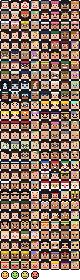
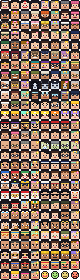
코어 0.128.2 · 경제 3.126.1: 커플 · 신혼부부(별난 손님 포함)는 늘 남녀, 한복 신부에는 한복 신랑
Claude-Session: https://claude.ai/code/session_01RZiBpXr9dauHCJtPMWBQ4s

diff --git a/economy/src/main/java/dev/stsv/economy/bus/BusSpec.java b/economy/src/main/java/dev/stsv/economy/bus/BusSpec.java
@@ -34,14 +34,31 @@ public record BusSpec(Set<String> vehicles, Fare fare, Mood mood, Stops stops, M
             return t.skins().isEmpty() ? null : shinySkin(t.skins().getFirst(), t.id());
         }
 
+        /**
+         * The skin the other half of a shiny pair wears: <id>_s2, their partner look ({@link Type#partnerBase()})
+         * recoloured the same way, so a shiny 커플 or 신혼부부 is a man and a woman, not twins. A kind with its own
+         * shiny-skin (or not a pair) wears {@link #skin} on both halves.
+         */
+        public String partnerSkin(Type t) {
+            String own = skins.get(t.id());
+            if (own != null && !own.isBlank()) return own;
+            String base = t.partnerBase();
+            return base == null ? skin(t) : shinySkin(base, t.id(), 2);
+        }
+
         /** economy:entity/bus/grandma_1 slim -> economy:entity/bus/grandma_s1 slim (the folder of the first skin, the kind's id). */
         static String shinySkin(String first, String id) {
+            return shinySkin(first, id, 1);
+        }
+
+        /** The same with _s<n> (2: a pair's other half, from their partner look). */
+        static String shinySkin(String first, String id, int n) {
             boolean slim = first.endsWith(" slim");
             String key = slim ? first.substring(0, first.length() - 5).trim() : first.trim();
             int cut = key.lastIndexOf('/');
             int colon = key.indexOf(':');
             String folder = cut >= 0 ? key.substring(0, cut + 1) : colon >= 0 ? key.substring(0, colon + 1) : "";
-            return folder + id + "_s1" + (slim ? " slim" : "");
+            return folder + id + "_s" + n + (slim ? " slim" : "");
         }
 
         /** A shiny one's lines in this situation (board, thanks): their kind's own, else the general ones, else null. */
@@ -146,7 +163,7 @@ public record BusSpec(Set<String> vehicles, Fare fare, Mood mood, Stops stops, M
 
     public record Type(String id, String name, String color, double weight, double fare, double mood, double slow, double jolt, double tip,
                        double far, double tipMood, double rush, double late, double scale, boolean announce, List<String> skins,
-                       Map<String, Double> tags, int hourFrom, int hourTo, double weekend, double market, double luggage, boolean pair,
+                       List<String> partnerSkins, Map<String, String> pairs, Map<String, Double> tags, int hourFrom, int hourTo, double weekend, double market, double luggage, boolean pair,
                        double wander, double turnFactor, boolean toEnd, double doze, List<Gift> gifts, Map<String, List<String>> talk,
                        Traits x, Hold hold) {
 
@@ -176,6 +193,32 @@ public record BusSpec(Set<String> vehicles, Fare fare, Mood mood, Stops stops, M
             return w * best;
         }
 
+        /**
+         * Every look (bus.yml skins, then partner-skins): the index hold / hold-off lists follow. A pair kind's first half
+         * wears one of `skins`, the other half one of `partnerSkins` (커플: the boyfriend, then the girlfriend; 신혼부부:
+         * the brides, then the grooms), `pairs` (look name -> partner look name, e.g. bride_3 -> bride_4) when one look
+         * has its own match. A pair kind with no partner-skins (유치원생): any two of `skins`.
+         */
+        public List<String> looks() {
+            if (partnerSkins.isEmpty()) return skins;
+            List<String> all = new ArrayList<>(skins);
+            all.addAll(partnerSkins);
+            return List.copyOf(all);
+        }
+
+        /** The skin a pair's other half's shiny (_s2) is drawn from: the first partner look, else the second look; null if not a pair. */
+        public String partnerBase() {
+            if (!pair || skins.isEmpty()) return null;
+            if (!partnerSkins.isEmpty()) return partnerSkins.getFirst();
+            return skins.size() > 1 ? skins.get(1) : skins.getFirst();
+        }
+
+        /** The look name of a skin key: economy:entity/bus/bride_3 slim -> bride_3. */
+        public static String lookName(String skin) {
+            String key = skin.endsWith(" slim") ? skin.substring(0, skin.length() - 5).trim() : skin.trim();
+            return key.substring(Math.max(key.lastIndexOf('/'), key.indexOf(':')) + 1);
+        }
+
         /** This kind's mood never goes below its floor (수다쟁이 아줌마, 스님). */
         public double floor(double mood) {
             return Math.max(mood, x.moodFloor());
@@ -196,8 +239,9 @@ public record BusSpec(Set<String> vehicles, Fare fare, Mood mood, Stops stops, M
      */
     /**
      * What a passenger mannequin holds (bus.yml types.*.hold / hold-off / hold-fly, README "마을버스"): an item id per look (index
-     * of `skins`; one for every look when bus.yml gives one id) in the main hand and in the off hand, "" for an empty hand; a
-     * 별난 손님 (look -1) holds what the first look holds. `fly`: the model the main-hand thing becomes when a jolt or a bump
+     * of {@link Type#looks()}: skins, then partner-skins; one for every look when bus.yml gives one id) in the main hand and in
+     * the off hand, "" for an empty hand; a 별난 손님 (look -1) holds what the first look holds, the other half of a shiny pair
+     * what their partner look ({@link Type#partnerBase()}) holds. `fly`: the model the main-hand thing becomes when a jolt or a bump
      * sends it fluttering round the bus (the hen), "" for none.
      */
     public record Hold(List<String> main, List<String> off, String fly) {
@@ -248,7 +292,7 @@ public record BusSpec(Set<String> vehicles, Fare fare, Mood mood, Stops stops, M
             List<String> raw = new ArrayList<>();
             if (t.isList(key)) {
                 for (Object o : t.getList(key, List.of())) raw.add(o == null ? "" : String.valueOf(o));
-                if (raw.size() != looks) problems.add("types." + id + "." + key + ": 모습(skins) " + looks + "개인데 " + raw.size() + "개");
+                if (raw.size() != looks) problems.add("types." + id + "." + key + ": 모습(skins + partner-skins) " + looks + "개인데 " + raw.size() + "개");
             } else raw.add(t.getString(key, ""));
             List<String> out = new ArrayList<>();
             for (String r : raw) {
@@ -326,13 +370,15 @@ public record BusSpec(Set<String> vehicles, Fare fare, Mood mood, Stops stops, M
             for (Map<?, ?> g : t.getMapList("gifts")) {
                 if (g.get("item") instanceof String item) gifts.add(new Gift(item, num(g, "amount", 1).intValue()));
             }
+            List<String> skins = List.copyOf(t.getStringList("skins")), partnerSkins = List.copyOf(t.getStringList("partner-skins"));
+            Map<String, String> pairs = pairs(t, id, skins, partnerSkins, problems);
             types.put(id, new Type(id, t.getString("name", id), t.getString("color", "white"), t.getDouble("weight", 1), t.getDouble("fare", 1),
                     t.getDouble("mood", 1), t.getDouble("slow", 1), t.getDouble("jolt", 1), t.getDouble("tip", 1), t.getDouble("far", 0),
                     t.getDouble("tip-mood", 0), t.getDouble("rush", 1), t.getDouble("late", 0), t.getDouble("scale", 1), t.getBoolean("announce"),
-                    List.copyOf(t.getStringList("skins")), tg, when.size() == 2 ? when.get(0) : -1, when.size() == 2 ? when.get(1) : -1,
+                    skins, partnerSkins, pairs, tg, when.size() == 2 ? when.get(0) : -1, when.size() == 2 ? when.get(1) : -1,
                     t.getDouble("weekend", 1), t.getDouble("market", 1), t.getDouble("luggage", 0), t.getBoolean("pair"), t.getDouble("wander", 0),
                     t.getDouble("turn", 1), t.getBoolean("to-end"), t.getDouble("doze", 0.15), List.copyOf(gifts), talk(t.getConfigurationSection("talk")),
-                    Traits.parse(t), Hold.parse(t, id, t.getStringList("skins").size(), problems)));
+                    Traits.parse(t), Hold.parse(t, id, skins.size() + partnerSkins.size(), problems)));
         }
         if (types.isEmpty()) problems.add("types 가 비어 있음");
         ConfigurationSection mk = section(c, "market"), pc = section(c, "picnic"), dz = section(c, "doze");
@@ -399,6 +445,35 @@ public record BusSpec(Set<String> vehicles, Fare fare, Mood mood, Stops stops, M
                 Set.copyOf(sh.getStringList("never")));
         for (String k : shiny.never()) if (!types.containsKey(k)) problems.add("shiny.never: 없는 손님 종류 " + k);
         return new BusSpec(vehicles, fare, mood, stops, types, extra, rental, queue, patience, board, events, fair, shiny);
+    }
+
+    /**
+     * A pair kind's partner-skins and pairs (bus.yml types.*.partner-skins / pairs): only on a pair kind, partner looks
+     * none of `skins`, every pair a look of skins (by name, bride_3) to one of partner-skins.
+     */
+    private static Map<String, String> pairs(ConfigurationSection t, String id, List<String> skins, List<String> partnerSkins, List<String> problems) {
+        boolean pair = t.getBoolean("pair");
+        if (!pair && !partnerSkins.isEmpty()) problems.add("types." + id + ".partner-skins: pair 가 아닌 손님 종류");
+        Set<String> first = new java.util.HashSet<>(), second = new java.util.HashSet<>();
+        for (String s : skins) first.add(Type.lookName(s));
+        for (String s : partnerSkins) {
+            if (first.contains(Type.lookName(s))) problems.add("types." + id + ".partner-skins: skins 에도 있는 모습 " + s);
+            second.add(Type.lookName(s));
+        }
+        ConfigurationSection ps = t.getConfigurationSection("pairs");
+        if (ps == null) return Map.of();
+        if (!pair || partnerSkins.isEmpty()) {
+            problems.add("types." + id + ".pairs: pair 이고 partner-skins 가 있어야 함");
+            return Map.of();
+        }
+        Map<String, String> out = new LinkedHashMap<>();
+        for (String k : ps.getKeys(false)) {
+            String v = ps.getString(k, "");
+            if (!first.contains(k)) problems.add("types." + id + ".pairs: skins 에 없는 모습 " + k);
+            else if (!second.contains(v)) problems.add("types." + id + ".pairs." + k + ": partner-skins 에 없는 모습 " + v);
+            else out.put(k, v);
+        }
+        return Map.copyOf(out);
     }
 
     private static Map<String, List<String>> talk(ConfigurationSection t) {

diff --git a/economy/src/test/java/dev/stsv/economy/bus/BusTest.java b/economy/src/test/java/dev/stsv/economy/bus/BusTest.java
@@ -7,6 +7,7 @@ import org.junit.jupiter.api.Test;
 import java.io.File;
 import java.util.ArrayList;
 import java.util.List;
+import java.util.Set;
 
 import static org.junit.jupiter.api.Assertions.*;
 
@@ -479,5 +480,112 @@ class BusTest {
         }
         // a hop goes up between its ends
         assertTrue(Flutter.TICKS % Flutter.HOP == 0 && Flutter.HOP % (2 * Flutter.STEP) == 0);
+    }
+
+    // ------------------------------------------------------------------------------------------
+    // pairs: a man and a woman (커플, 신혼부부), the shiny other half in _s2
+    // ------------------------------------------------------------------------------------------
+
+    /** Who each pair look is (drawn by tools/assetgen/economy_bus_skins.py): m a man, w a woman. */
+    static final java.util.Map<String, Character> SEX = java.util.Map.of("couple_1", 'm', "couple_2", 'w', "couple_3", 'w',
+            "bride_1", 'w', "bride_2", 'm', "bride_3", 'w', "bride_4", 'm');
+
+    @Test
+    void aPairIsAManAndAWoman() {
+        BusSpec s = spec();
+        java.util.Random rnd = new java.util.Random(11);
+        for (String kind : List.of("couple", "bride")) {
+            BusSpec.Type t = s.types().get(kind);
+            assertTrue(t.pair(), kind);
+            assertFalse(t.partnerSkins().isEmpty(), kind);
+            // every look is someone of a known sex, and both halves have their own looks
+            for (String k : t.looks()) assertNotNull(SEX.get(BusSpec.Type.lookName(k)), k);
+            java.util.Set<String> seen = new java.util.HashSet<>(), pairs = new java.util.HashSet<>();
+            for (int i = 0; i < 2000; i++) {
+                String a = BusModule.pickSkin(t, rnd), b = BusModule.partnerSkin(t, a, rnd);
+                String na = BusSpec.Type.lookName(a), nb = BusSpec.Type.lookName(b);
+                assertNotEquals(SEX.get(na), SEX.get(nb), kind + ": " + na + " + " + nb);
+                seen.add(na);
+                seen.add(nb);
+                pairs.add(na + "+" + nb);
+            }
+            assertEquals(t.looks().size(), seen.size(), kind + " uses every look: " + seen);
+            // the partner of an unknown first half (null) is still of the other sex than every first look
+            for (int i = 0; i < 200; i++) {
+                String b = BusSpec.Type.lookName(BusModule.partnerSkin(t, null, rnd));
+                for (String a : t.skins()) assertNotEquals(SEX.get(BusSpec.Type.lookName(a)), SEX.get(b), kind);
+            }
+            if (kind.equals("bride")) assertEquals(java.util.Set.of("bride_1+bride_2", "bride_3+bride_4"), pairs, "matched dress");
+            else assertEquals(java.util.Set.of("couple_1+couple_2", "couple_1+couple_3"), pairs);
+        }
+        // the slim (3-pixel) arms: the women of the pairs, never the men
+        for (String kind : List.of("couple", "bride"))
+            for (String k : s.types().get(kind).looks())
+                assertEquals(SEX.get(BusSpec.Type.lookName(k)) == 'w', k.endsWith(" slim"), k);
+        // 유치원생: any two of the kids, and a kind not a pair has no partner looks
+        BusSpec.Type kinder = s.types().get("kinder");
+        assertTrue(kinder.pair() && kinder.partnerSkins().isEmpty() && kinder.pairs().isEmpty());
+        for (int i = 0; i < 100; i++) assertTrue(kinder.skins().contains(BusModule.partnerSkin(kinder, kinder.skins().getFirst(), rnd)));
+        for (BusSpec.Type t : s.types().values()) if (!t.pair()) assertTrue(t.partnerSkins().isEmpty() && t.pairs().isEmpty(), t.id());
+        // the bride holds the bouquet, the grooms (and the 한복 bride) nothing
+        BusSpec.Type bride = s.types().get("bride");
+        assertEquals("economy:bus_hold_bouquet", bride.hold().main(bride.looks().indexOf("economy:entity/bus/bride_1 slim")));
+        for (String k : List.of("economy:entity/bus/bride_2", "economy:entity/bus/bride_4", "economy:entity/bus/bride_3 slim"))
+            assertEquals("", bride.hold().main(bride.looks().indexOf(k)), k);
+    }
+
+    @Test
+    void theShinyPairIsNotTwins() {
+        BusSpec s = spec();
+        BusSpec.Shiny sh = s.shiny();
+        assertEquals("economy:entity/bus/couple_s2 slim", sh.partnerSkin(s.types().get("couple")));
+        assertEquals("economy:entity/bus/bride_s2", sh.partnerSkin(s.types().get("bride")));
+        assertEquals("economy:entity/bus/kinder_s2 slim", sh.partnerSkin(s.types().get("kinder")));
+        for (BusSpec.Type t : s.types().values()) {
+            if (!sh.eligible(t)) continue;
+            if (t.pair()) {
+                String key = sh.partnerSkin(t).replace(" slim", "");
+                assertNotEquals(sh.skin(t), sh.partnerSkin(t), t.id());
+                assertTrue(java.nio.file.Files.exists(ShinyTest.SKINS.resolve(t.id() + "_s2.png")), key);
+                // the same arms as the look it is drawn from
+                assertEquals(t.partnerBase().endsWith(" slim"), sh.partnerSkin(t).endsWith(" slim"), t.id());
+            } else assertEquals(sh.skin(t), sh.partnerSkin(t), t.id());
+        }
+        // the shiny bride keeps the bouquet, the shiny groom holds what the groom holds (nothing)
+        BusSpec.Type bride = s.types().get("bride");
+        assertEquals(-1, BusModule.shinyLook(bride, sh.skin(bride)));
+        assertEquals("economy:bus_hold_bouquet", bride.hold().main(BusModule.shinyLook(bride, sh.skin(bride))));
+        assertEquals(bride.looks().indexOf("economy:entity/bus/bride_2"), BusModule.shinyLook(bride, sh.partnerSkin(bride)));
+        assertEquals("", bride.hold().main(BusModule.shinyLook(bride, sh.partnerSkin(bride))));
+        assertEquals(-1, BusModule.shinyLook(s.types().get("grandma"), sh.skin(s.types().get("grandma"))));
+        // a kind's own shiny-skin: both halves wear it
+        BusSpec.Shiny own = new BusSpec.Shiny(0.5, sh.talk(), sh.own(), java.util.Map.of("couple", "x:y"), Set.of());
+        assertEquals("x:y", own.partnerSkin(s.types().get("couple")));
+        assertEquals("economy:entity/bus/couple_s2 slim", BusSpec.Shiny.shinySkin("economy:entity/bus/couple_2 slim", "couple", 2));
+        assertEquals("bride_3", BusSpec.Type.lookName("economy:entity/bus/bride_3 slim"));
+        assertEquals("y_1", BusSpec.Type.lookName("x:y_1"));
+    }
+
+    @Test
+    void partnerSkinProblemsAreReported() {
+        YamlConfiguration y = YamlConfiguration.loadConfiguration(new File("content/economy/bus.yml"));
+        y.set("types.resident.partner-skins", List.of("economy:entity/bus/resident_9 slim"));   // not a pair
+        y.set("types.couple.pairs.couple_9", "couple_2");                                        // no such first look
+        y.set("types.couple.pairs.couple_1", "couple_7");                                        // no such partner look
+        y.set("types.kinder.pairs.kinder_1", "kinder_2");                                        // no partner-skins
+        y.set("types.bride.partner-skins", List.of("economy:entity/bus/bride_2", "economy:entity/bus/bride_4",
+                "economy:entity/bus/bride_3 slim"));                                             // a first look again, and hold has 4 of 5
+        List<String> problems = new ArrayList<>();
+        BusSpec s = BusSpec.parse(y, problems);
+        assertTrue(problems.contains("types.resident.partner-skins: pair 가 아닌 손님 종류"), problems.toString());
+        assertTrue(problems.contains("types.couple.pairs: skins 에 없는 모습 couple_9"), problems.toString());
+        assertTrue(problems.contains("types.couple.pairs.couple_1: partner-skins 에 없는 모습 couple_7"), problems.toString());
+        assertTrue(problems.contains("types.kinder.pairs: pair 이고 partner-skins 가 있어야 함"), problems.toString());
+        assertTrue(problems.contains("types.bride.partner-skins: skins 에도 있는 모습 economy:entity/bus/bride_3 slim"), problems.toString());
+        assertTrue(problems.stream().anyMatch(p -> p.startsWith("types.bride.hold:") && p.contains("5")), problems.toString());
+        assertEquals(6, problems.size(), problems.toString());
+        assertEquals(java.util.Map.of(), s.types().get("couple").pairs(), "only good pairs are kept");
+        // the real file: the 한복 bride's groom is in 한복
+        assertEquals(java.util.Map.of("bride_1", "bride_2", "bride_3", "bride_4"), spec().types().get("bride").pairs());
     }
 }

diff --git a/economy/src/main/java/dev/stsv/economy/bus/BusModule.java b/economy/src/main/java/dev/stsv/economy/bus/BusModule.java
@@ -130,6 +130,8 @@ public final class BusModule extends EcoModule {
         final BusSpec.Type type;
         /** the skin's file name (its face in the HUD's faces sheet), or null */
         final String face;
+        /** the skin key it wears (bus.yml skins, " slim" kept; a pair's other half is matched to it), or null */
+        String skin;
         /** a transfer passenger: the line they wait for and where they go (else null) */
         Integer forcedLine, forcedDest;
         boolean transfer;
@@ -1824,7 +1826,7 @@ public final class BusModule extends EcoModule {
                     sh.waiters.add(x);
                     sh.dirty = true;
                     if (x.type.pair() && x.team == 0 && x.special == null && sh.waiters.size() < want + 1) {   // a couple: the other half beside them
-                        Waiter y = spawnWaiter(w, s, sh.waiters.size(), want + 1, nearDriver.getUniqueId(), x.type, x.shiny);
+                        Waiter y = spawnWaiter(w, s, sh.waiters.size(), want + 1, nearDriver.getUniqueId(), x.type, x.shiny, x.skin);
                         if (y != null) {
                             y.half = true;
                             x.partner = y;
@@ -3528,14 +3530,29 @@ public final class BusModule extends EcoModule {
     }
 
     /**
-     * Which skin (bus.yml types.*.skins) a passenger of this kind wears: one at random; a couple in matching clothes, the
-     * first the first look and the other half (`partner`) one of the rest. Null when the kind has none.
+     * Which skin (bus.yml types.*.skins) a passenger of this kind wears: one at random (a pair's first half too). Null when
+     * the kind has none.
      */
     static String pickSkin(BusSpec.Type type, boolean partner) {
+        return partner ? partnerSkin(type, null, ThreadLocalRandom.current()) : pickSkin(type, ThreadLocalRandom.current());
+    }
+
+    static String pickSkin(BusSpec.Type type, java.util.random.RandomGenerator rnd) {
         if (type.skins().isEmpty()) return null;
-        if (type.pair() && type.skins().size() > 1)
-            return partner ? type.skins().get(1 + ThreadLocalRandom.current().nextInt(type.skins().size() - 1)) : type.skins().getFirst();
-        return type.skins().get(ThreadLocalRandom.current().nextInt(type.skins().size()));
+        return type.skins().get(rnd.nextInt(type.skins().size()));
+    }
+
+    /**
+     * The skin of the other half of a pair whose first half wears `first` (null: not known): its match in bus.yml pairs
+     * (신혼부부: the 한복 bride's 한복 groom), else one of partner-skins at random (커플: the girlfriend, 신혼부부: a
+     * groom), else, a pair kind with no partner-skins (유치원생), any of skins.
+     */
+    static String partnerSkin(BusSpec.Type type, String first, java.util.random.RandomGenerator rnd) {
+        List<String> them = type.partnerSkins();
+        if (them.isEmpty()) return pickSkin(type, rnd);
+        String match = first == null ? null : type.pairs().get(BusSpec.Type.lookName(first));
+        if (match != null) for (String s : them) if (BusSpec.Type.lookName(s).equals(match)) return s;
+        return them.get(rnd.nextInt(them.size()));
     }
 
     /**
@@ -3577,8 +3594,15 @@ public final class BusModule extends EcoModule {
                 x.setInvisible(true);
                 x.setGlowing(true);
             }
-            equip(x, type, shiny ? -1 : type.skins().indexOf(skin));
+            equip(x, type, shiny ? shinyLook(type, skin) : type.looks().indexOf(skin));
         });
+    }
+
+    /** The look a shiny one holds what of: -1 (the first look's), the other half of a shiny pair (_s2) their partner look's. */
+    static int shinyLook(BusSpec.Type type, String skin) {
+        String base = type.partnerBase();
+        if (base == null || skin == null || !BusSpec.Type.lookName(skin).equals(type.id() + "_s2")) return -1;
+        return type.looks().indexOf(base);
     }
 
     /**
@@ -3642,10 +3666,11 @@ public final class BusModule extends EcoModule {
     }
 
     private Waiter spawnWaiter(World w, BusStop s, int i, int n, UUID driver) {
-        return spawnWaiter(w, s, i, n, driver, null, false);
+        return spawnWaiter(w, s, i, n, driver, null, false, null);
     }
 
-    private Waiter spawnWaiter(World w, BusStop s, int i, int n, UUID driver, BusSpec.Type only, boolean partnerShiny) {
+    /** `only`: the other half of a pair of this kind, shiny or not as the first half, whose skin is `firstSkin`. */
+    private Waiter spawnWaiter(World w, BusStop s, int i, int n, UUID driver, BusSpec.Type only, boolean partnerShiny, String firstSkin) {
         Net net = nets.get(s.world());
         if (net == null) return null;
         if (net.linesOf(s.id()).isEmpty()) return null;
@@ -3668,7 +3693,8 @@ public final class BusModule extends EcoModule {
         Location at = new Location(w, spot[0], s.y() + 1, spot[1], s.facingRoad(), 0);
         if (!w.isChunkLoaded(at.getBlockX() >> 4, at.getBlockZ() >> 4)) return null;
         String lineNos = lineNumbers(s);
-        String skin = shiny && spec.shiny().skin(type) != null ? spec.shiny().skin(type) : pickSkin(type, only != null);
+        String skin = shinySkin(type, shiny, only != null);
+        if (skin == null) skin = only != null ? partnerSkin(type, firstSkin, ThreadLocalRandom.current()) : pickSkin(type, false);
         boolean shown = shiny;
         BusSpec.Type kindOf = type;
         Mannequin m = spawnGuest(at, type, skin, shiny, x -> {
@@ -3684,6 +3710,7 @@ public final class BusModule extends EcoModule {
             face = key.substring(key.lastIndexOf('/') + 1);
         }
         Waiter out = new Waiter(m, type, face);
+        out.skin = skin;
         out.shiny = shiny;
         if (shiny) sparkle(m, true);
         if (f != null && !stale) {
@@ -3694,6 +3721,12 @@ public final class BusModule extends EcoModule {
             out.special = kind == null ? null : kind.id();
         }
         return out;
+    }
+
+    /** A shiny one's skin (a shiny pair's other half: _s2), or null when not shiny or the kind has no skins. */
+    String shinySkin(BusSpec.Type type, boolean shiny, boolean partner) {
+        if (!shiny) return null;
+        return partner ? spec.shiny().partnerSkin(type) : spec.shiny().skin(type);
     }
 
     /** Who comes to wait at this stop now: by kind, its traits, the hour, a weekend, its market day. */

diff --git a/economy/src/test/java/dev/stsv/economy/bus/ShinyTest.java b/economy/src/test/java/dev/stsv/economy/bus/ShinyTest.java
@@ -96,11 +96,12 @@ class ShinyTest {
         Set<String> names = new HashSet<>();
         faces.forEach(e -> names.add(e.getAsString()));
         for (BusSpec.Type t : s.types().values()) {
-            for (String k : t.skins()) {
+            for (String k : t.looks()) {
                 String key = k.endsWith(" slim") ? k.substring(0, k.length() - 5) : k;
                 assertTrue(names.contains(key.substring(key.lastIndexOf('/') + 1)), key);
             }
             if (s.shiny().eligible(t)) assertTrue(names.contains(t.id() + "_s1"), t.id() + "_s1");
+            if (s.shiny().eligible(t) && t.pair()) assertTrue(names.contains(t.id() + "_s2"), t.id() + "_s2");
         }
     }
 
